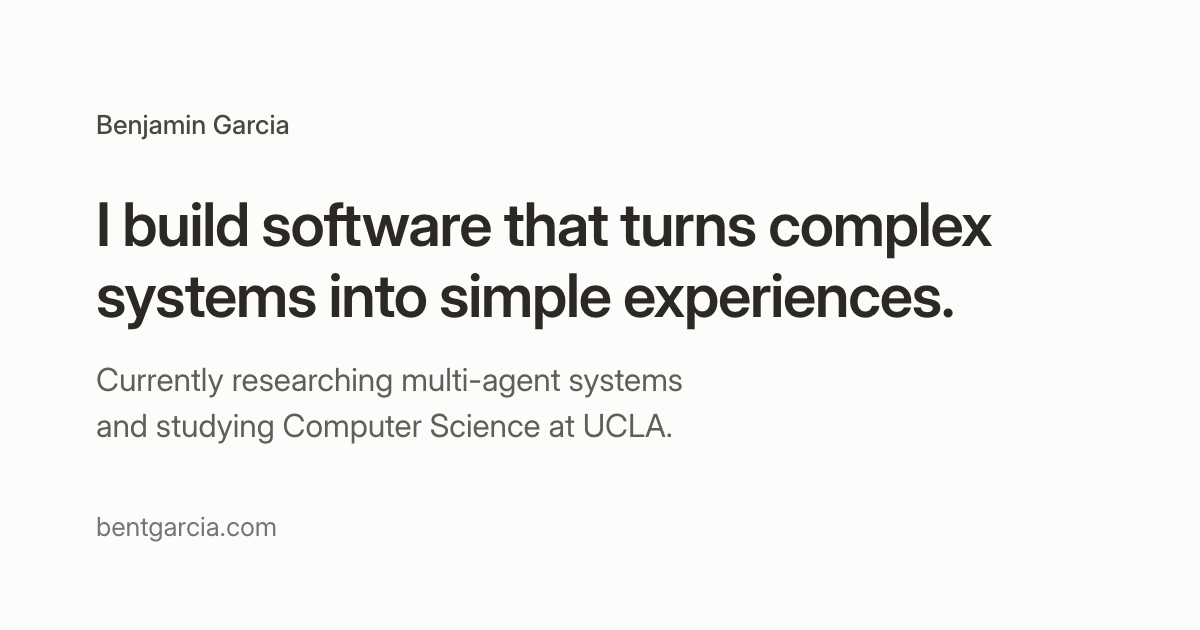
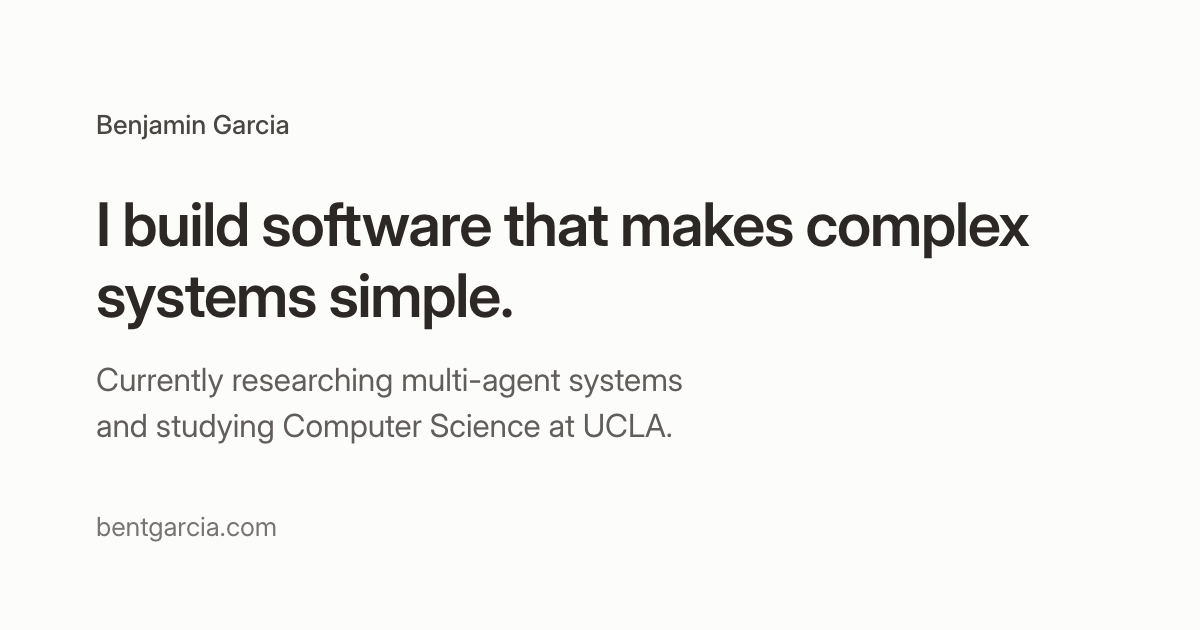
Refresh social preview with current homepage headline

Changed region(s): [[0.2775, 0.4222, 0.8017, 0.5127], [0.5242, 0.3317, 0.8633, 0.4222]]

diff --git a/blog/policyc/index.html b/blog/policyc/index.html
@@ -24,16 +24,16 @@
     <meta property="og:title" content="Building PolicyC, a policy compiler" />
     <meta property="og:description" content="Six compiler versions, five frozen studies, and five canaries: why smaller policy prompts lost critical behavior, how a model reading the policy's own clauses recovered it, and what that reading costs." />
     <meta property="og:site_name" content="Benjamin Garcia" />
-    <meta property="og:image" content="https://www.bentgarcia.com/static/og.png?v=5" />
+    <meta property="og:image" content="https://www.bentgarcia.com/static/og.png?v=6" />
     <meta property="og:image:width" content="1200" />
     <meta property="og:image:height" content="630" />
-    <meta property="og:image:alt" content="Benjamin Garcia — I build software that turns complex systems into simple experiences." />
+    <meta property="og:image:alt" content="Benjamin Garcia. I build software that makes complex systems simple." />
     <meta property="article:published_time" content="2026-09-03" />
     <meta property="article:author" content="Benjamin Garcia" />
     <meta name="twitter:card" content="summary_large_image" />
     <meta name="twitter:title" content="Building PolicyC, a policy compiler" />
     <meta name="twitter:description" content="Six compiler versions, five frozen studies, and five canaries: why smaller policy prompts lost critical behavior, how a model reading the policy's own clauses recovered it, and what that reading costs." />
-    <meta name="twitter:image" content="https://www.bentgarcia.com/static/og.png?v=5" />
+    <meta name="twitter:image" content="https://www.bentgarcia.com/static/og.png?v=6" />
     <meta name="format-detection" content="address=no,email=no,telephone=no" />
     <script type="application/ld+json">
       {
@@ -46,7 +46,7 @@
         "datePublished": "2026-09-03",
         "dateModified": "2026-09-06",
         "inLanguage": "en-US",
-        "image": "https://www.bentgarcia.com/static/og.png?v=5",
+        "image": "https://www.bentgarcia.com/static/og.png?v=6",
         "keywords": ["PolicyC", "Polaris", "policy compilation", "LLM", "prompt engineering", "TypeScript", "Python", "OpenAI", "evaluation"],
         "author": {
           "@type": "Person",

diff --git a/blog/annie/index.html b/blog/annie/index.html
@@ -24,16 +24,16 @@
     <meta property="og:title" content="Building Annie, an iMessage assistant" />
     <meta property="og:description" content="Why I rebuilt the assistant I used at Lindy with Google, Notion, and DeepSeek, and why I intend to keep it small." />
     <meta property="og:site_name" content="Benjamin Garcia" />
-    <meta property="og:image" content="https://www.bentgarcia.com/static/og.png?v=5" />
+    <meta property="og:image" content="https://www.bentgarcia.com/static/og.png?v=6" />
     <meta property="og:image:width" content="1200" />
     <meta property="og:image:height" content="630" />
-    <meta property="og:image:alt" content="Benjamin Garcia — I build software that turns complex systems into simple experiences." />
+    <meta property="og:image:alt" content="Benjamin Garcia. I build software that makes complex systems simple." />
     <meta property="article:published_time" content="2026-09-02" />
     <meta property="article:author" content="Benjamin Garcia" />
     <meta name="twitter:card" content="summary_large_image" />
     <meta name="twitter:title" content="Building Annie, an iMessage assistant" />
     <meta name="twitter:description" content="Why I rebuilt the assistant I used at Lindy with Google, Notion, and DeepSeek, and why I intend to keep it small." />
-    <meta name="twitter:image" content="https://www.bentgarcia.com/static/og.png?v=5" />
+    <meta name="twitter:image" content="https://www.bentgarcia.com/static/og.png?v=6" />
     <meta name="format-detection" content="address=no,email=no,telephone=no" />
     <script type="application/ld+json">
       {
@@ -46,7 +46,7 @@
         "datePublished": "2026-09-02",
         "dateModified": "2026-09-02",
         "inLanguage": "en-US",
-        "image": "https://www.bentgarcia.com/static/og.png?v=5",
+        "image": "https://www.bentgarcia.com/static/og.png?v=6",
         "keywords": ["Annie", "iMessage", "DeepSeek", "TypeScript", "SQLite", "Sendblue", "Railway"],
         "author": {
           "@type": "Person",

diff --git a/blog/logit/index.html b/blog/logit/index.html
@@ -24,16 +24,16 @@
     <meta property="og:title" content="Building Logit, a workout logger" />
     <meta property="og:description" content="I built Logit after getting tired of searching Apple Notes between sets. It took eight project folders and one bug that sent me straight back to Notes." />
     <meta property="og:site_name" content="Benjamin Garcia" />
-    <meta property="og:image" content="https://www.bentgarcia.com/static/og.png?v=5" />
+    <meta property="og:image" content="https://www.bentgarcia.com/static/og.png?v=6" />
     <meta property="og:image:width" content="1200" />
     <meta property="og:image:height" content="630" />
-    <meta property="og:image:alt" content="Benjamin Garcia portfolio preview saying I build software that turns complex systems into simple experiences." />
+    <meta property="og:image:alt" content="Benjamin Garcia. I build software that makes complex systems simple." />
     <meta property="article:published_time" content="2026-09-03" />
     <meta property="article:author" content="Benjamin Garcia" />
     <meta name="twitter:card" content="summary_large_image" />
     <meta name="twitter:title" content="Building Logit, a workout logger" />
     <meta name="twitter:description" content="I built Logit after getting tired of searching Apple Notes between sets. It took eight project folders and one bug that sent me straight back to Notes." />
-    <meta name="twitter:image" content="https://www.bentgarcia.com/static/og.png?v=5" />
+    <meta name="twitter:image" content="https://www.bentgarcia.com/static/og.png?v=6" />
     <meta name="format-detection" content="address=no,email=no,telephone=no" />
     <script type="application/ld+json">
       {

diff --git a/index.html b/index.html
@@ -24,11 +24,11 @@
     <meta property="og:title" content="Benjamin Garcia" />
     <meta property="og:description" content="Full-stack engineer and UCLA CS student researching multi-agent systems at the HCI Lab. Previously Meta, Lindy, Todd Agriscience, and TensorStax." />
     <meta property="og:site_name" content="Benjamin Garcia" />
-    <meta property="og:image" content="https://www.bentgarcia.com/static/og.png?v=5" />
+    <meta property="og:image" content="https://www.bentgarcia.com/static/og.png?v=6" />
     <meta property="og:image:width" content="1200" />
     <meta property="og:image:height" content="630" />
-    <meta property="og:image:alt" content="Benjamin Garcia — I build software that turns complex systems into simple experiences." />
-    <meta name="twitter:image" content="https://www.bentgarcia.com/static/og.png?v=5" />
+    <meta property="og:image:alt" content="Benjamin Garcia. I build software that makes complex systems simple." />
+    <meta name="twitter:image" content="https://www.bentgarcia.com/static/og.png?v=6" />
     <meta name="twitter:card" content="summary_large_image" />
     <meta name="twitter:title" content="Benjamin Garcia" />
     <meta name="twitter:description" content="Full-stack engineer and UCLA CS student researching multi-agent systems at the HCI Lab. Previously Meta, Lindy, Todd Agriscience, and TensorStax." />

diff --git a/projects/index.html b/projects/index.html
@@ -24,11 +24,11 @@
     <meta property="og:title" content="Projects | Benjamin Garcia" />
     <meta property="og:description" content="A collection of product, AI, systems, and web engineering work spanning TypeScript, Go, Python, and React." />
     <meta property="og:site_name" content="Benjamin Garcia" />
-    <meta property="og:image" content="https://www.bentgarcia.com/static/og.png?v=5" />
+    <meta property="og:image" content="https://www.bentgarcia.com/static/og.png?v=6" />
     <meta property="og:image:width" content="1200" />
     <meta property="og:image:height" content="630" />
-    <meta property="og:image:alt" content="Benjamin Garcia — I build software that turns complex systems into simple experiences." />
-    <meta name="twitter:image" content="https://www.bentgarcia.com/static/og.png?v=5" />
+    <meta property="og:image:alt" content="Benjamin Garcia. I build software that makes complex systems simple." />
+    <meta name="twitter:image" content="https://www.bentgarcia.com/static/og.png?v=6" />
     <meta name="twitter:card" content="summary_large_image" />
     <meta name="twitter:title" content="Projects | Benjamin Garcia" />
     <meta name="twitter:description" content="A collection of product, AI, systems, and web engineering work spanning TypeScript, Go, Python, and React." />
